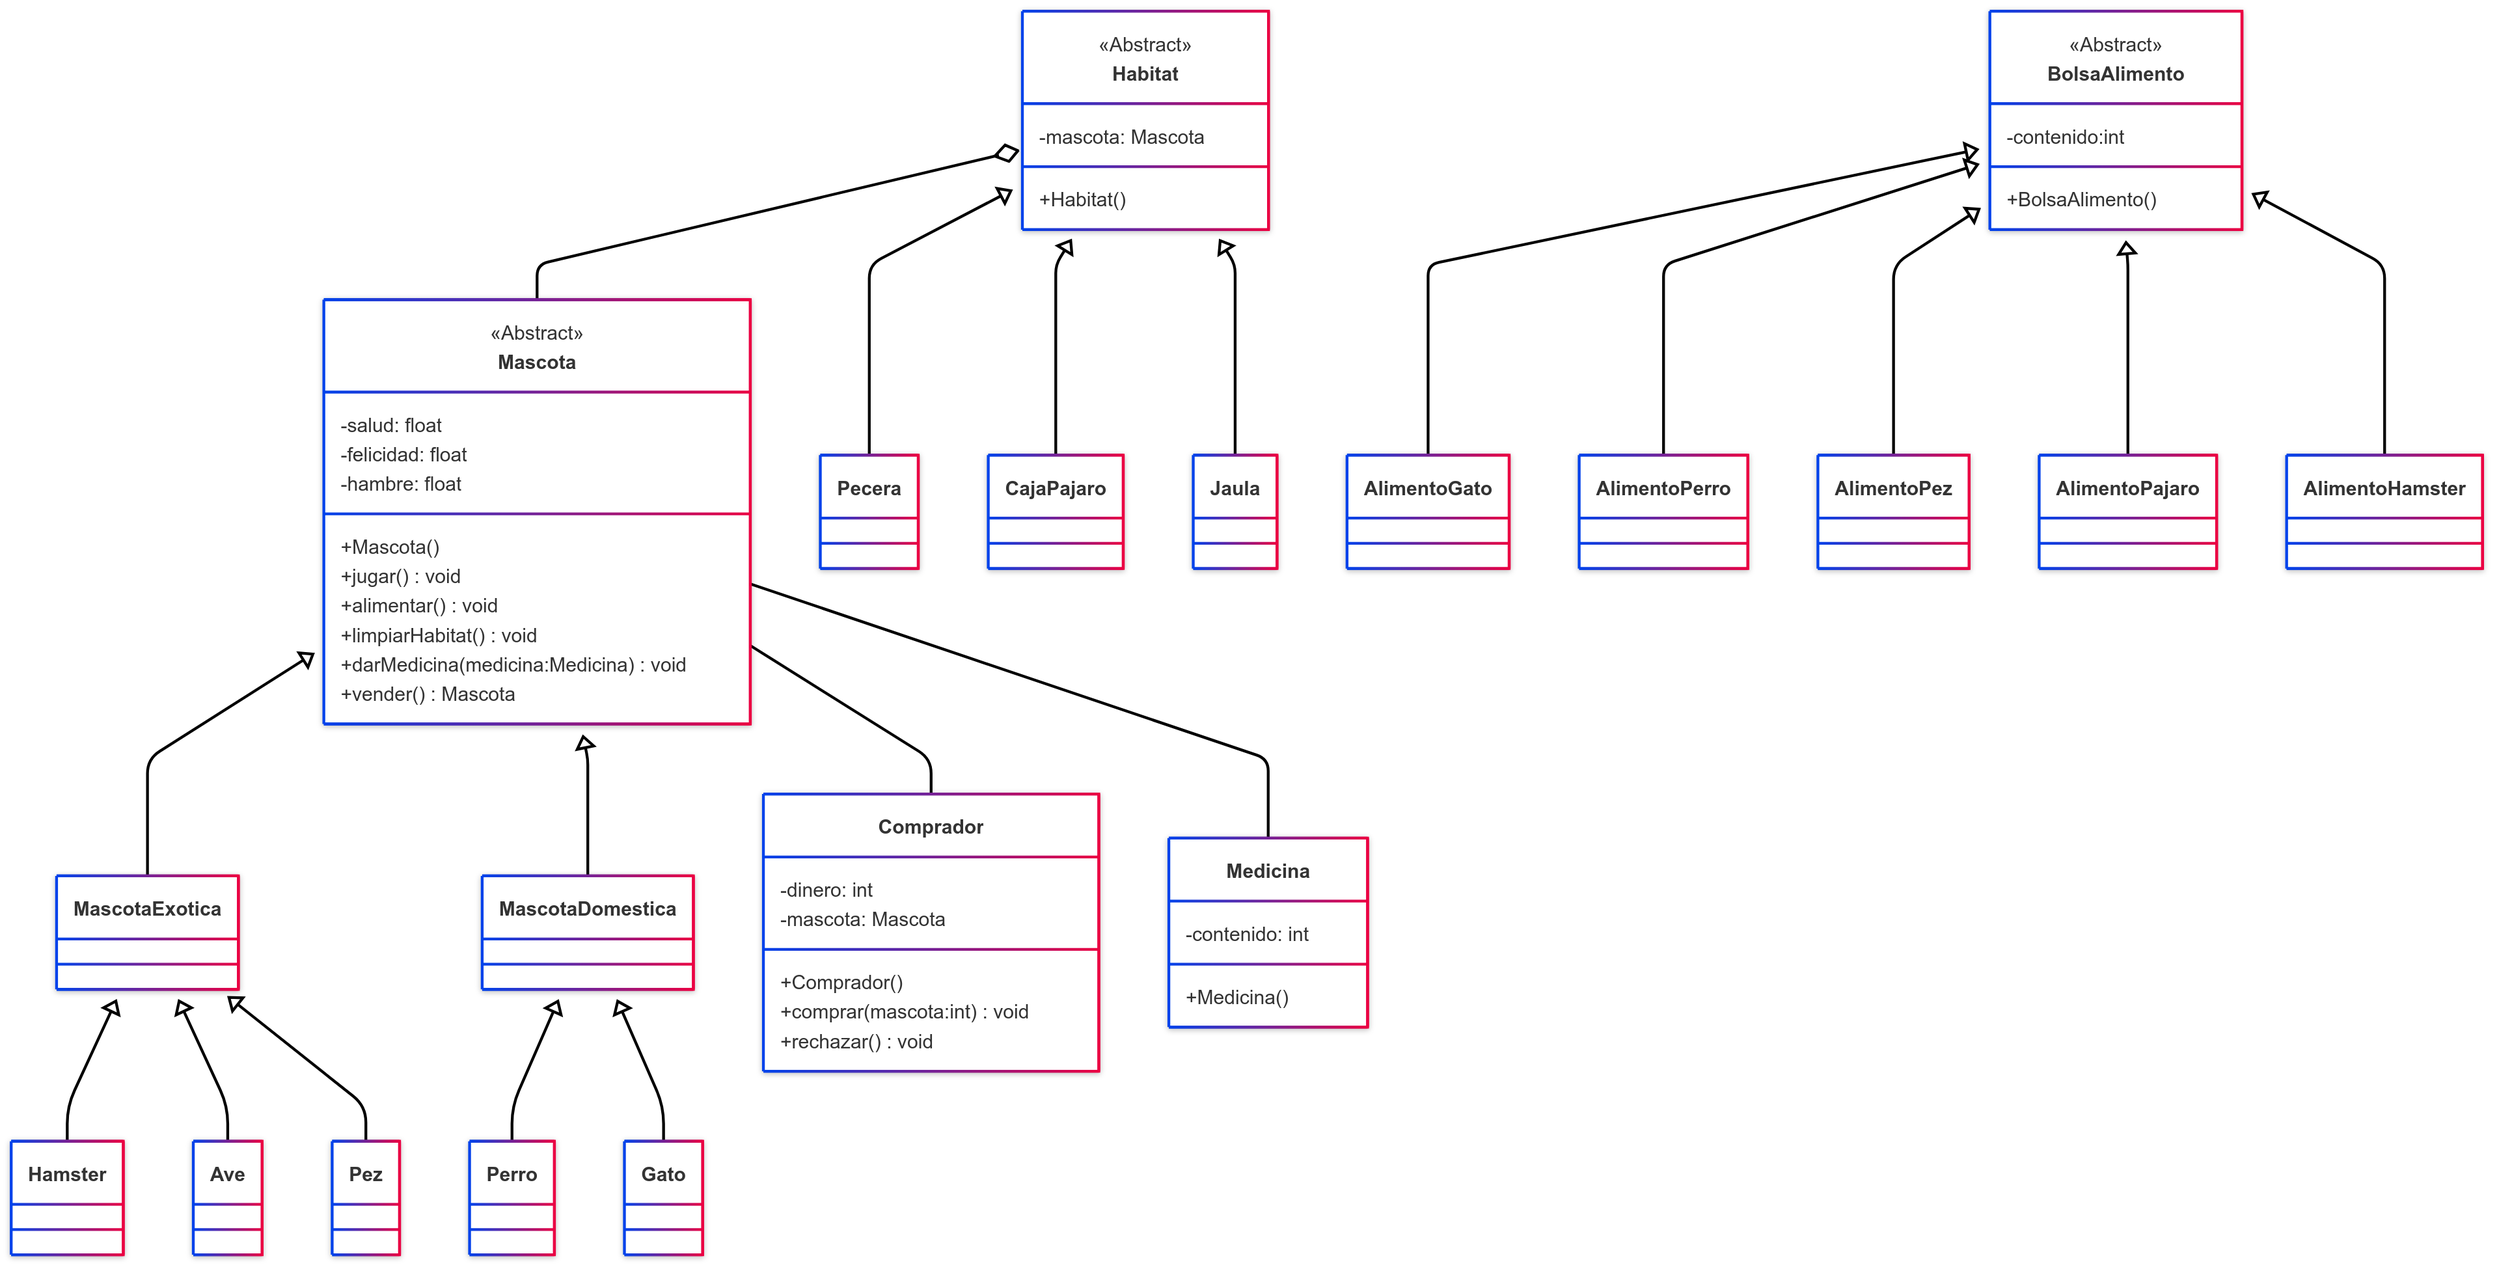
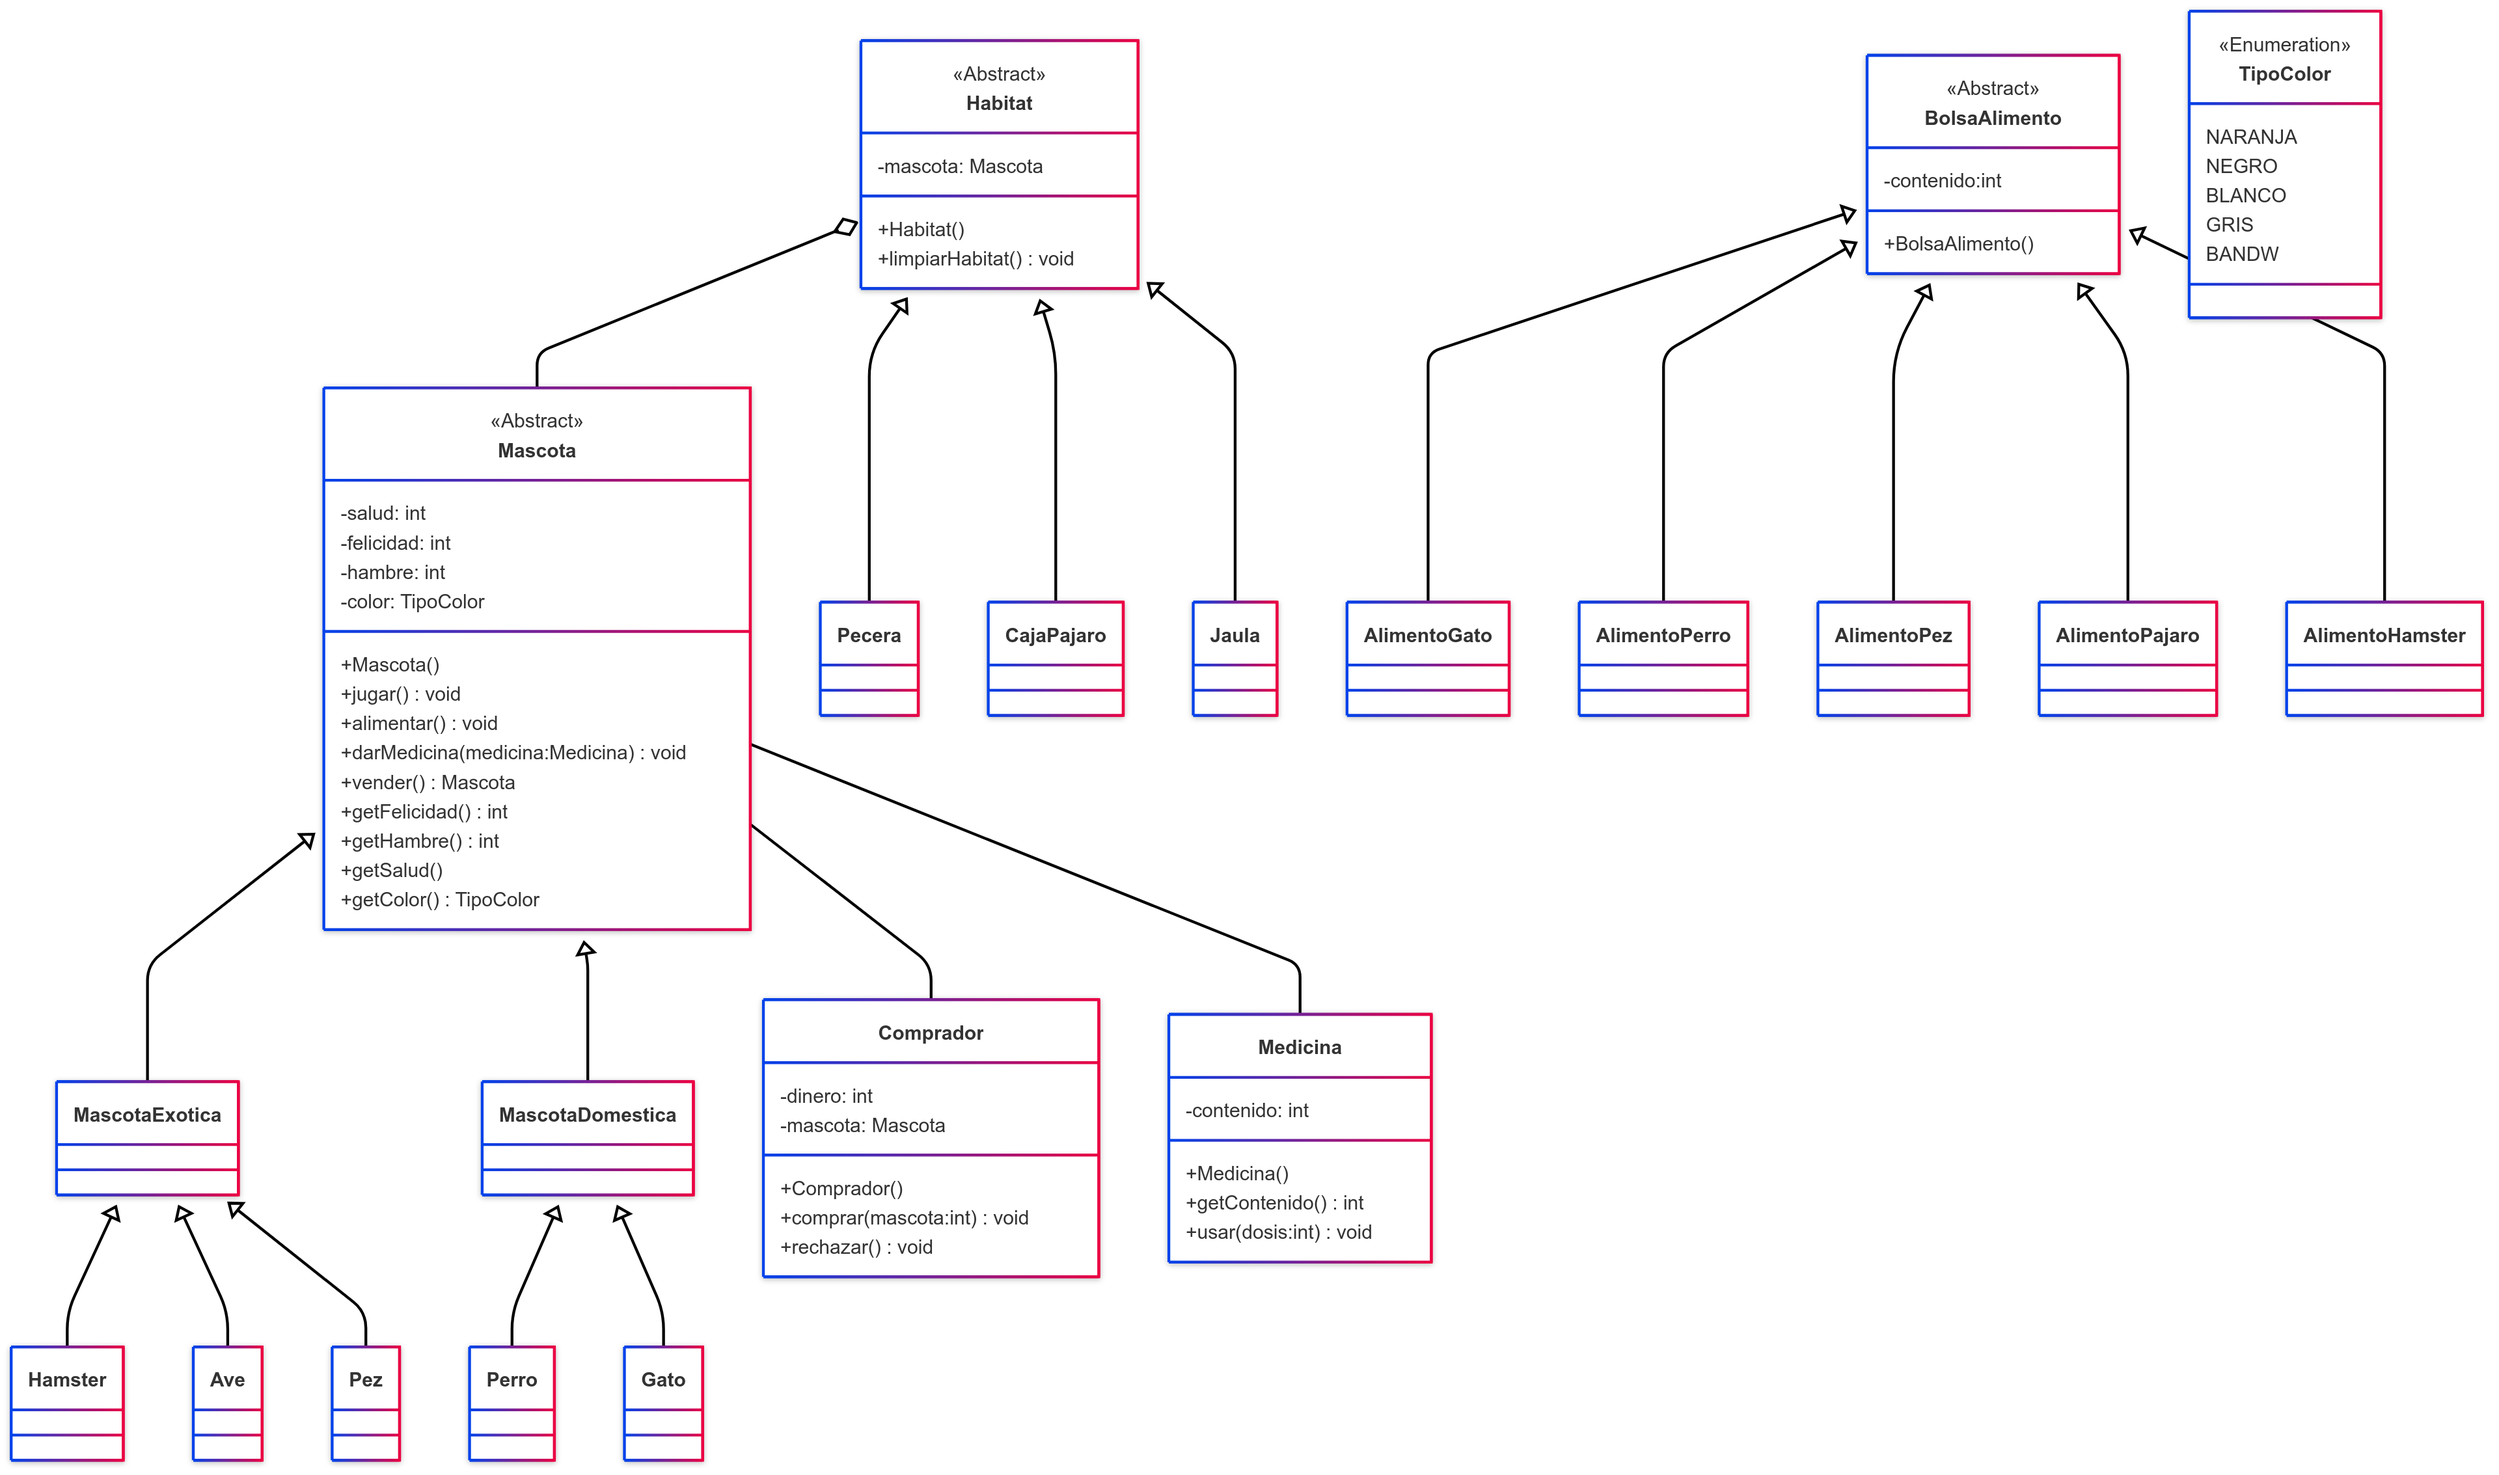
add: actualización del diagrama UML y se añaden avances y pasos a seguir en readme

diff --git a/README.md b/README.md
@@ -11,3 +11,11 @@
 
 # Prototipo de interfaz
 ![img.png](Prototipo.png)
+
+# Avances 
+    Creamos diagramas UML (de clase y uso), y en base a eso contruimos parte de la base, principalmente relacionado a mascotas.
+    Creamos un pequeño mockup de cómo nos gustaría hacer la interfaz gráfica, junto a un prototipo en código.
+
+# Siguientes pasos
+    Seguir con los elementos con los que se relacionan las mascotas y lograr una lógica firme.
+    Seguir evolucionando nuestros prototipos gráficos.
